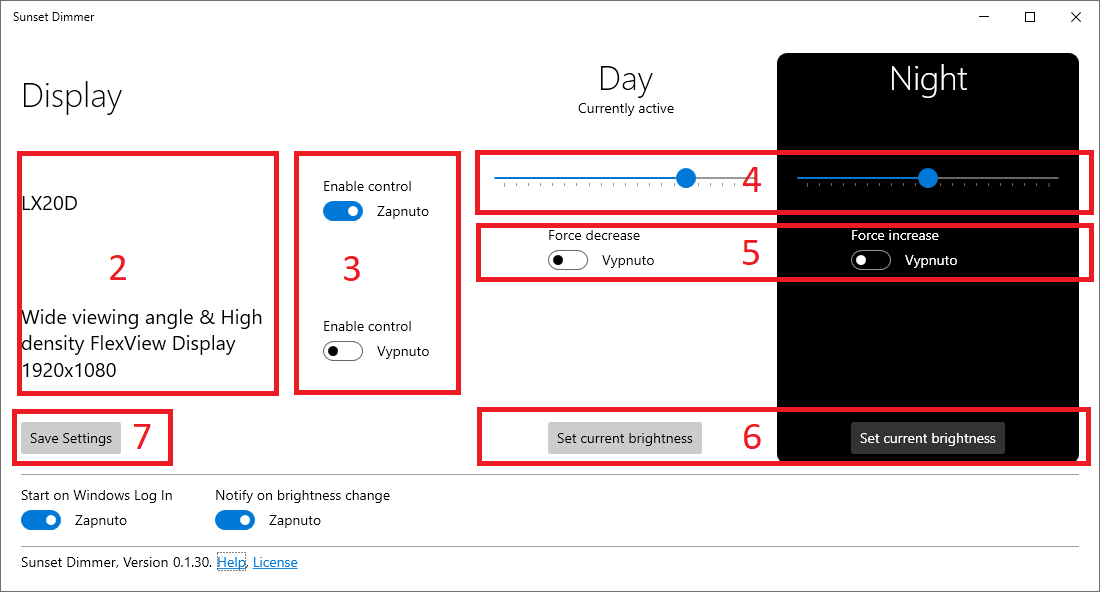
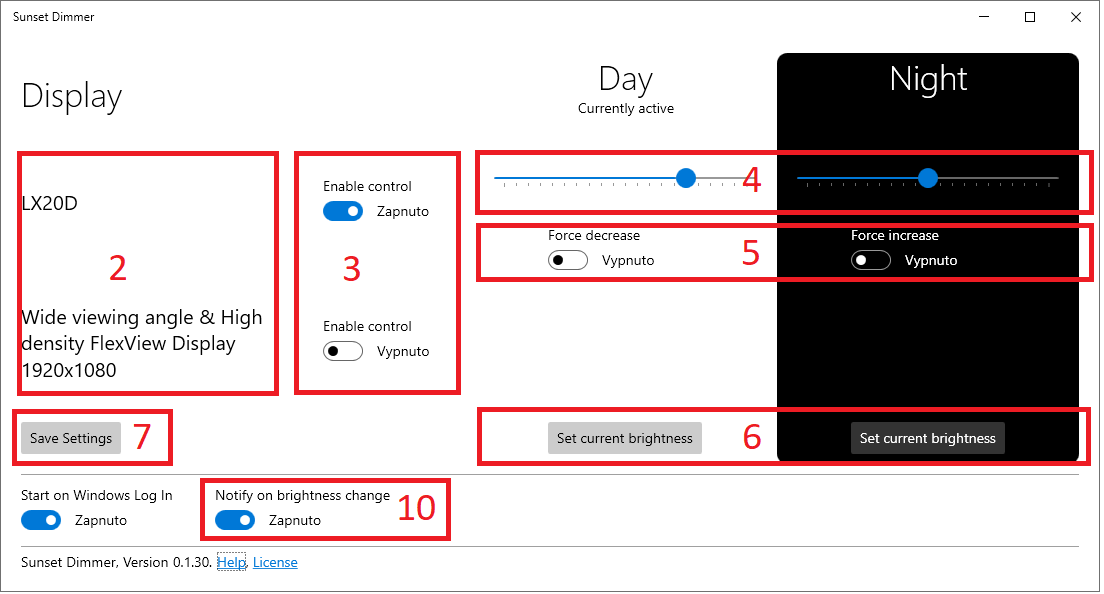
help fixes

Changed region(s): [[0.154, 0.7879, 0.4312, 0.9091]]

diff --git a/docs/help.md b/docs/help.md
@@ -25,20 +25,20 @@ Windows 10 version 1903 (May 2019 Update, build 10.0.18362) and up. This app is 
 
 * Make sure you have the [Night light Windows feature](https://support.microsoft.com/en-us/windows/set-your-display-for-night-time-in-windows-18fe903a-e0a1-8326-4c68-fd23d7aaf136) enabled and set up properly (I recommend enabling the automatic schedule).
 * The app starts as an icon in the Windows toolbar notification area. 
-![Notify icon](./assets/help-notify-icon.png)
+<br> ![Notify icon](./assets/help-notify-icon.png)
 * Start by double-clicking the app icon *(1)*.
 * Wait for the app to load your supported displays *(2)*. 
 * If you don't see your display, try to go through the display's on-screen menu, enable the **DDC/CI** feature, and close and reopen the app window.
-[![Settings window](./assets/help-settings.png)](./assets/help-settings.png)
+<br> [![Settings window](./assets/help-settings.png)](./assets/help-settings.png)
 * Use the toggle switches *(3)* to enable control of the displays you want to dim.
 * After you enable the display, two sliders *(4)* and two toggle switches *(5)* (see below for more information) show up.
 * Use the slider to set the desired brightness levels.
 * Alternatively, you can use your display brightness controls (e.g., OSD menu or hotkeys on your laptop keyboard). After adjusting the settings, use the **Set current brightness** button *(6)* below to use the current setting as Day or Night preset.
 * Save the configuration using the **Save** *(7)* button.
 * Test the configuration by switching the **Night light** on or off using the button *(8)* in the Windows notification panel. After toggling the Night mode, the app will automatically adjust the brightness in a few seconds.
-![Night light button](./assets/help-night-light.png)
-* A toast notification *(9)* should pop in your notification bar. You can disable the notifications using the setting in the Sunset Dimmer options window located under the display list.
-![Toast notification](./assets/help-notification.png)
+<br> ![Night light button](./assets/help-night-light.png)
+* A toast notification *(9)* should pop in your notification bar. You can disable the notifications using the setting in the Sunset Dimmer options window located under the display list *(10)*.
+<br> ![Toast notification](./assets/help-notification.png)
 
 ## What do the Force increase/decrease options affect?
 
